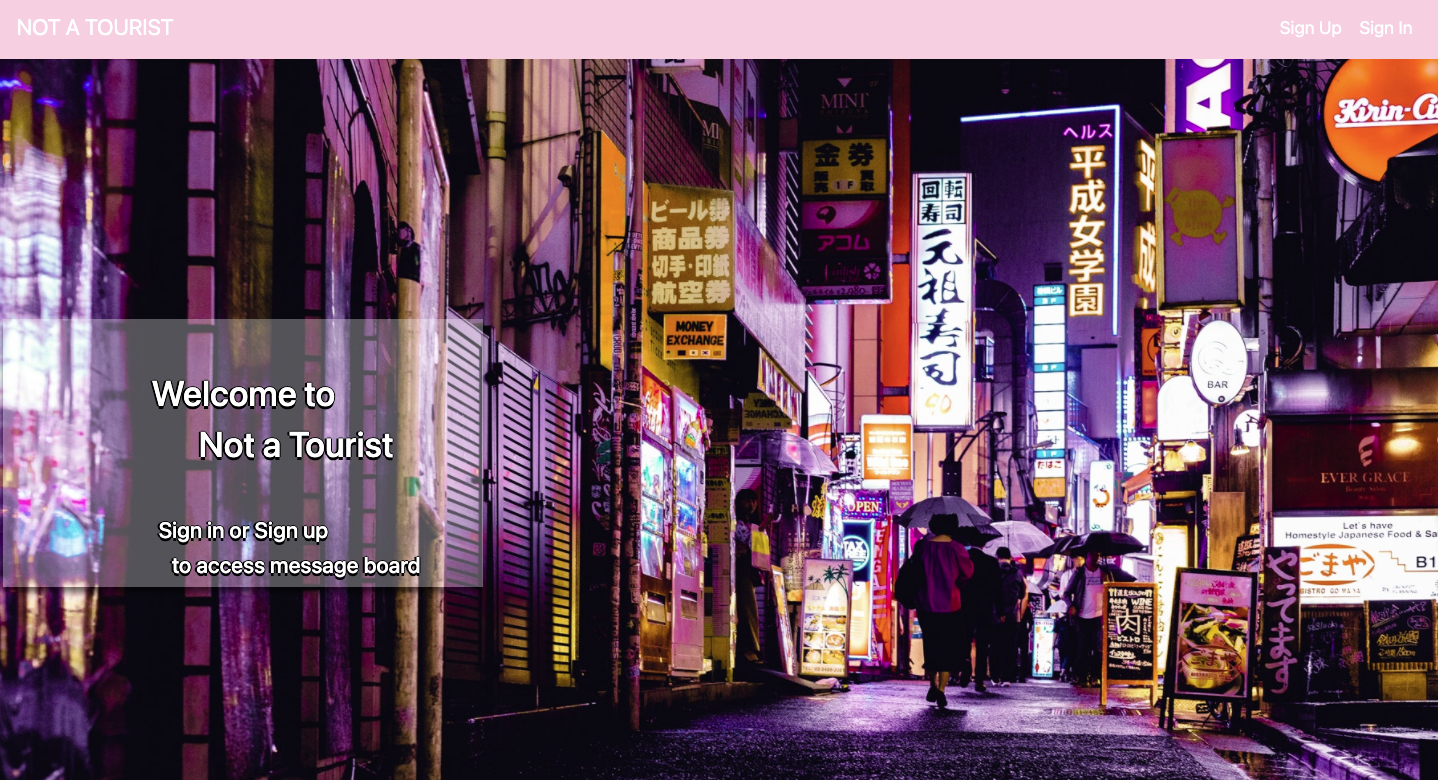
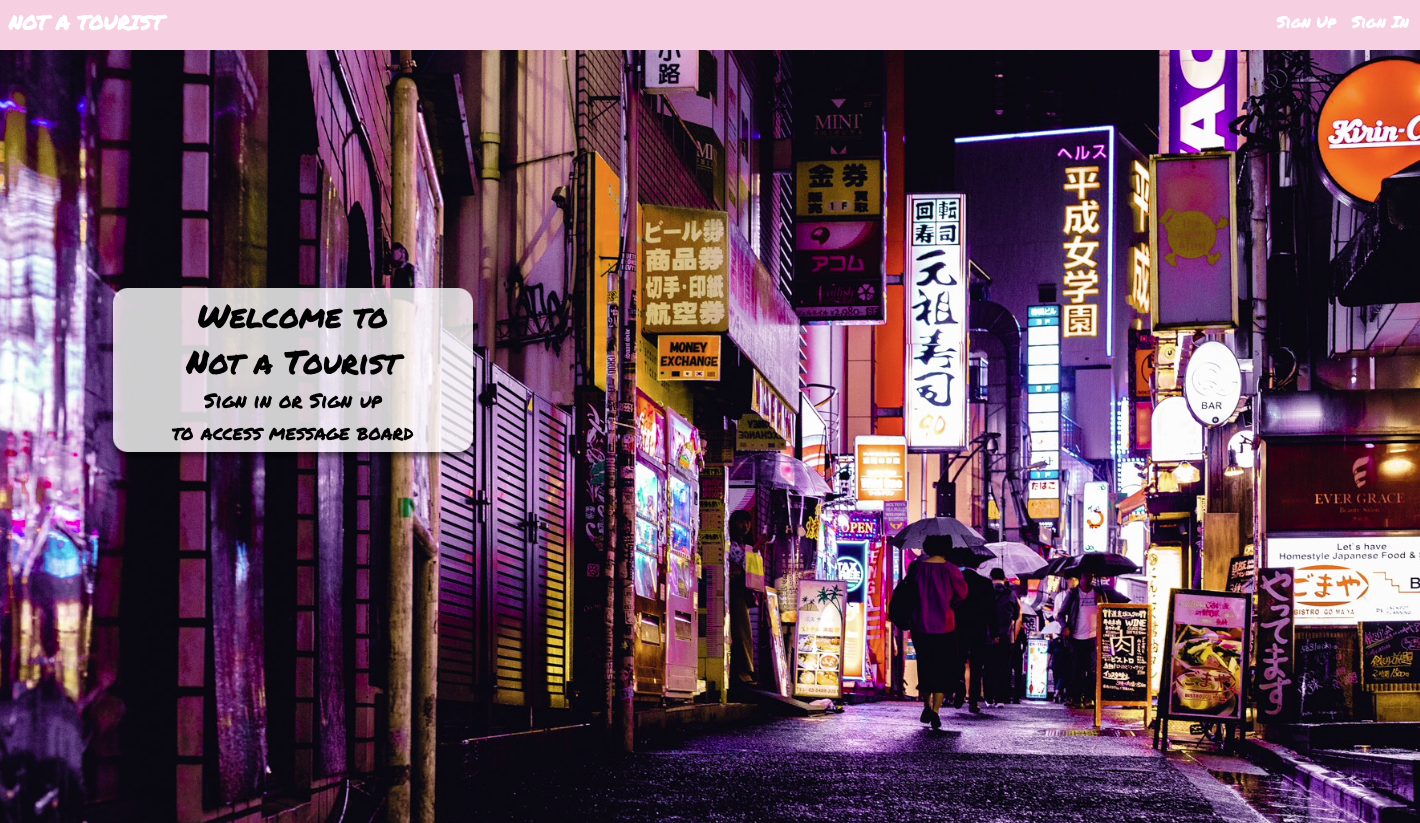
Update readme screenshots and info

diff --git a/README.md b/README.md
@@ -1,7 +1,4 @@
 # Not A Tourist
-#### Screen Shot
-
-![Screen Shot](./public/nat.png)
 
 ### Important Links
 -	Back-End-Repo: https://github.com/wpMcDonnell/not-a-tourist-api
@@ -9,6 +6,14 @@
 -	Deployed API: https://not-a-tourist-api.herokuapp.com
 
 -	Deployed Client: https://wpmcdonnell.github.io/not-a-tourist-client/
+
+#### Screen Shots
+
+![Greeting](./public/nat.png)
+
+![Cities](./public/cities.png)
+
+![Post display](./public/typost.png)
 
 ### Not A Tourist Summary
 "Not A Tourist" is a site where users can select a city or start threads in the general section in the form of posts. Once created, original creators of posts can update or delete their posts. All users may then comment on available posts. Ideally, users will post lists and information regaring travel to a particular city of choice.
@@ -42,6 +47,7 @@ First I created a wireframe and users stories to physically conceputalize how I 
 
 
 ### Technologies Used
+- Bootstrap
 -	HTML5
 -	SCSS
 -	React
@@ -51,7 +57,8 @@ First I created a wireframe and users stories to physically conceputalize how I 
 -	Node.js
 
 ### Unsolved Problems
-* I would like to add more styling
+* I want to add time stamps and up votes and down votes, as well as a search bar for post's inside each city
+* I would also like to create a AWS bucket to upload images for fashion, so user's know the fashion styles for going out in that particular city
 
 #### ERD
 
